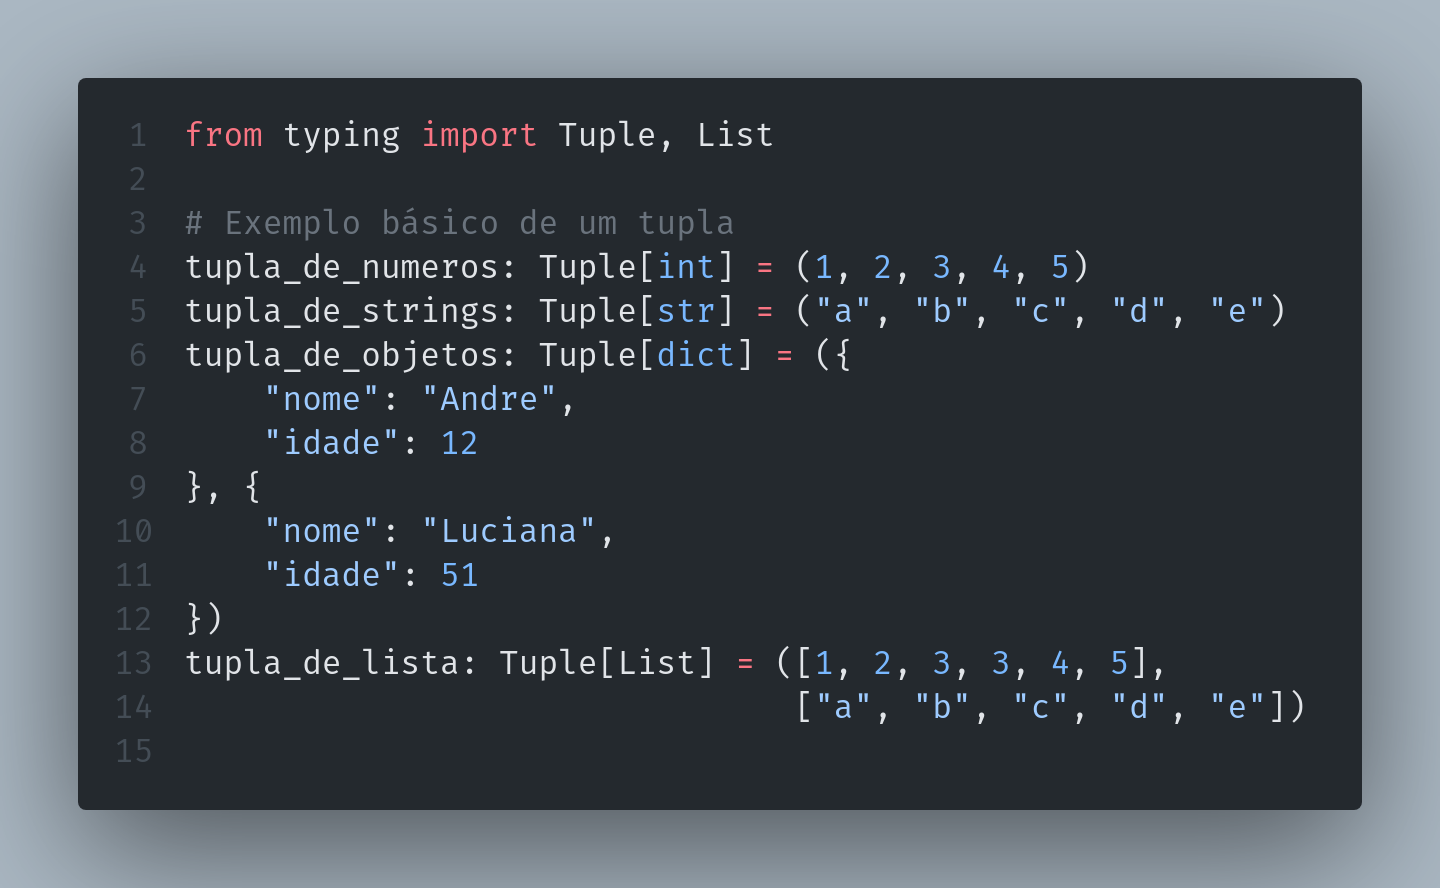
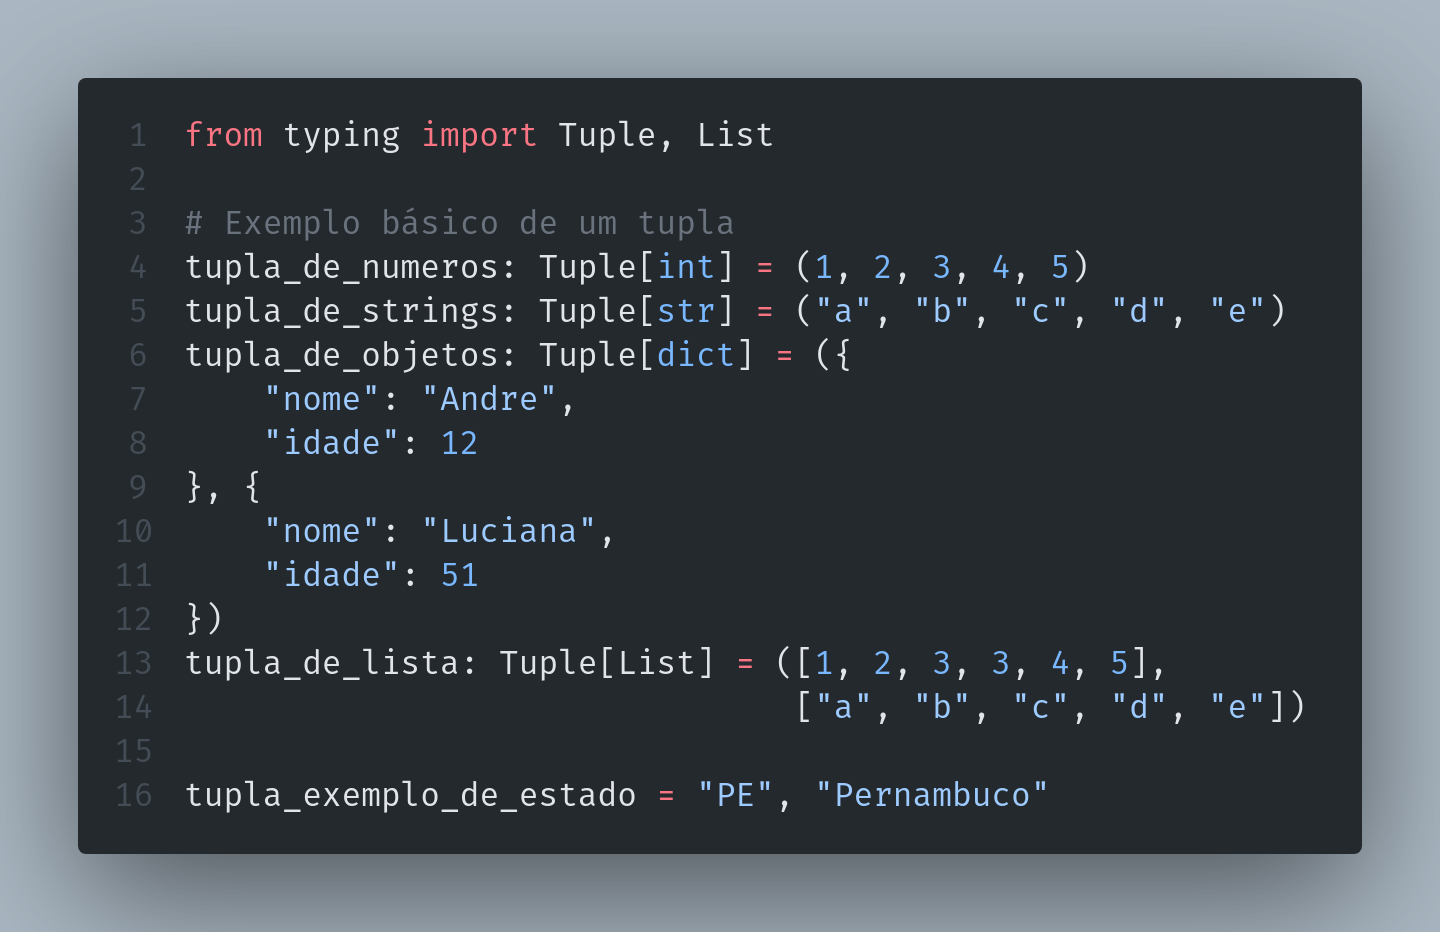
feat: add tuple example

diff --git a/0 - Introduacao/tuple/tuple.py b/0 - Introduacao/tuple/tuple.py
@@ -12,3 +12,5 @@ tupla_de_objetos: Tuple[dict] = ({
 })
 tupla_de_lista: Tuple[List] = ([1, 2, 3, 3, 4, 5],
                                ["a", "b", "c", "d", "e"])
+
+tupla_exemplo_de_estado = "PE", "Pernambuco"
